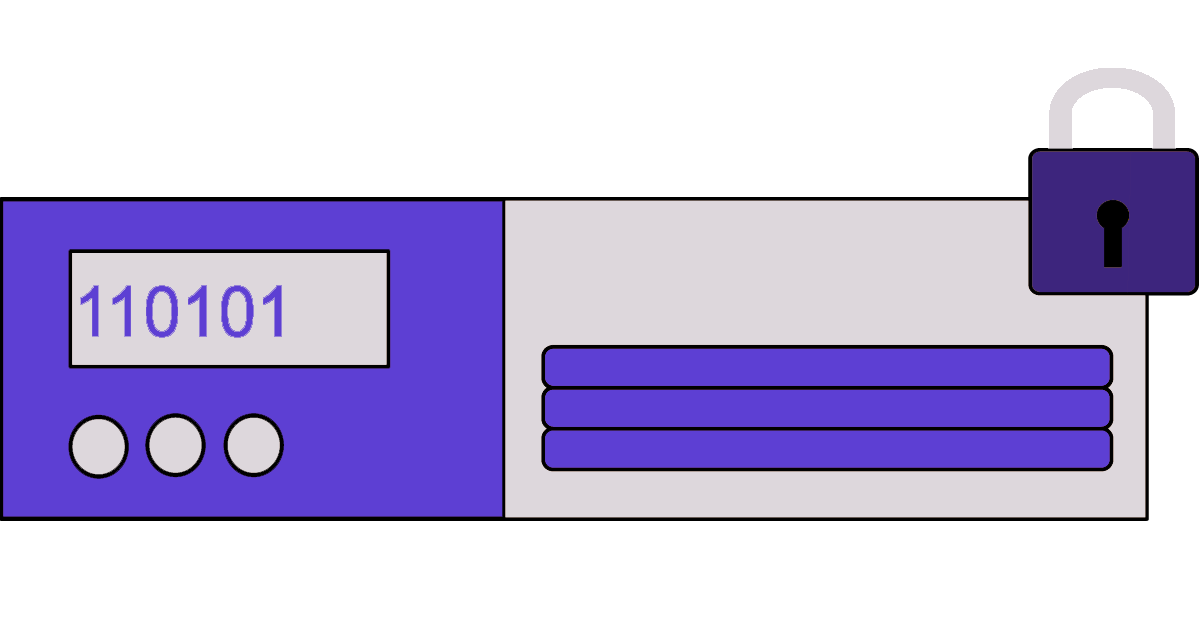
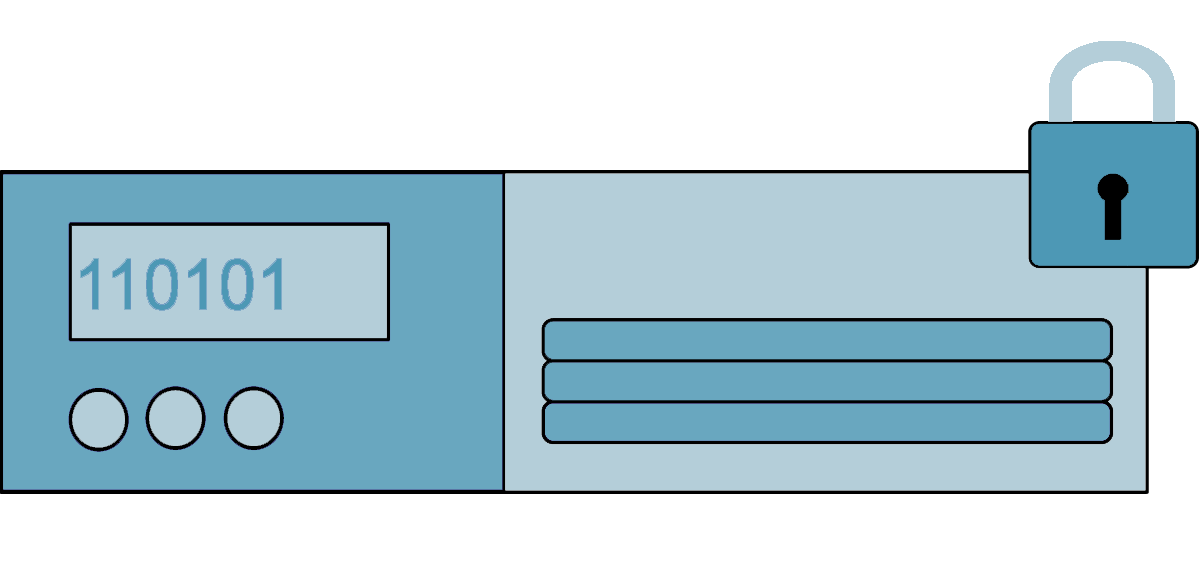
Change color scheme

diff --git a/style.css b/style.css
@@ -611,7 +611,7 @@ input:required {
   width: 40px;
   height: 40px;
   bottom: 40px;
-  background-color: #3d257d;
+  background-color: #69A7BF;
   color: #ffffff;
   text-align: center;
   -webkit-transition-duration: 500ms;
@@ -1331,7 +1331,7 @@ input:required {
 }
 .main-footer-area .single-footer-widget .widget-title {
   font-size: 20px;
-  color: #5D3FD3;
+  color: #69A7BF;
   margin-bottom: 20px;
 }
 .main-footer-area .single-footer-widget p {
@@ -1344,7 +1344,7 @@ input:required {
 .main-footer-area .single-footer-widget .footer-title {
   display: block;
   font-family: 'GOT';
-  color: #3d257d;
+  color: #B4CED9;
   letter-spacing: 2px;
   font-size: 50px;
   margin-top: 13px;
@@ -1441,7 +1441,7 @@ input:required {
 }
 
 .copywrite-content {
-  border-top: 1px solid #414269;
+  border-top: 1px solid #B4CED9;
   padding: 15px 0;
 }
 @media only screen and (max-width: 767px) {
@@ -1450,7 +1450,7 @@ input:required {
   }
 }
 .copywrite-content .copywrite-text p {
-  color: #9293bc;
+  color: #69A7BF;
   font-size: 14px;
   margin-bottom: 0;
 }
@@ -1465,12 +1465,12 @@ input:required {
   }
 }
 .copywrite-content .copywrite-text p a {
-  color: #5D3FD3;
+  color: #69A7BF;
   font-weight: 400;
 }
 .copywrite-content .copywrite-text p a:hover,
 .copywrite-content .copywrite-text p a:focus {
-  color: #3d257d;
+  color: #69A7BF;
 }
 .copywrite-content .footer-menu {
   position: relative;
@@ -1554,13 +1554,13 @@ input:required {
 /* :: FAQ Section CSS; */
 
 #faq a {
-  color: #5D3FD3;
+  color: #69A7BF;
   transition: 0.5s;
   text-decoration: none;
 }
 
 #faq a:hover {
-  color: #3d257d;
+  color: #69A7BF;
   outline: none;
   text-decoration: none;
 }
@@ -1587,7 +1587,7 @@ input:required {
 }
 
 #faq #faq-list li {
-  border-bottom: 2px solid #3d257d;
+  border-bottom: 2px solid #69A7BF;
   flex-grow: 1;
 }
 
@@ -1638,7 +1638,7 @@ input:required {
 }
 
 #faq #faq2-list li {
-  border-bottom: 2px solid #3d257d;;
+  border-bottom: 2px solid #69A7BF;;
   flex-grow: 1;
 }
 
@@ -3581,11 +3581,11 @@ input:required {
 .ctf-img {
   width: 70%;
 }
-@media (min-width: 768px) {
+/* @media (min-width: 768px) {
   .dev-img {
     width: 70%;
   }
-}
+} */
 @media only screen and (min-width: 768px) and (max-width: 991px) {
   .contact-our-area .contact-information .single-contact-info h6 {
     font-size: 16px;
@@ -4057,7 +4057,7 @@ svg path {
 
 .tracks-img {
   max-height: 181px;
-  max-width: 225px;
+  max-width: 250px;
 }
 
 .register-button {
@@ -4078,11 +4078,11 @@ svg path {
 }
 
 .past-edition-button {
-  background:#3d257d;
+  background:#69A7BF;
   color: #fff;
   padding: 10px 20px;
   margin: auto;
-  border: 1px solid #3d257d;
+  border: 1px solid #69A7BF;
   border-radius: 25px;
   font-weight: 500;
   transition: all 0.3s;
@@ -4091,7 +4091,7 @@ svg path {
 .past-edition-button:hover, .past-edition-button:focus {
   background: #000 !important;
   color: #fff !important;
-  border-color: #3d257d !important;
+  border-color: #69A7BF !important;
 }
 
 .colorlib-loader {
@@ -4237,13 +4237,13 @@ svg path {
 }
 
 .sticky .classynav ul li a {
-    color: #5D3FD3 !important;
+    color: #69A7BF !important;
 }
 
 .sticky .classynav ul li a:hover {
-    color: #3d257d !important;
+    color: #69A7BF !important;
 }
 
 .sticky .nav-brand {
-    color: #3d257d !important;
+    color: #B4CED9 !important;
 }

diff --git a/index.html b/index.html
@@ -8,7 +8,7 @@
 
     <!-- Below meta tag disables conversion of numbers into phone number links in iOS devices -->
     <meta name="format-detection" content="telephone=no">
-    <meta name="viewport" content="width=device-width, initial-scale=1, shrink-to-fit=no">
+    <meta name="viewport" content="width=device-width, initialcontact-scale=1, shrink-to-fit=no">
     <meta name="description" content="Silicon Maze 2021">
     <meta name="keywords" content="Silicon Maze, Contest, Nation-Wide, NITK Surathkal, Prizes">
 
@@ -445,8 +445,8 @@
 
                             <!-- Contact Area -->
                             <div class="footer-contact-info">
-                                <p><i class="zmdi zmdi-pin"></i><a style="color:#9293bc" href="https://goo.gl/maps/86DJCMqtYdhVFNgA8" target="_blank">National Institute of Technology Karnataka, Surathkal</a></p>
-                                <p><i class="zmdi zmdi-email"></i><a style="color:#9293bc" href="mailto:siliconmaze@gmail.com" target="_blank">siliconmaze@gmail.com</a></p>
+                                <p><i class="zmdi zmdi-pin"></i><a style="color:#69A7BF" href="https://goo.gl/maps/86DJCMqtYdhVFNgA8" target="_blank">National Institute of Technology Karnataka, Surathkal</a></p>
+                                <p><i class="zmdi zmdi-email"></i><a style="color:#69A7BF" href="mailto:siliconmaze@gmail.com" target="_blank">siliconmaze@gmail.com</a></p>
                             </div>
                         </div>
                     </div>
